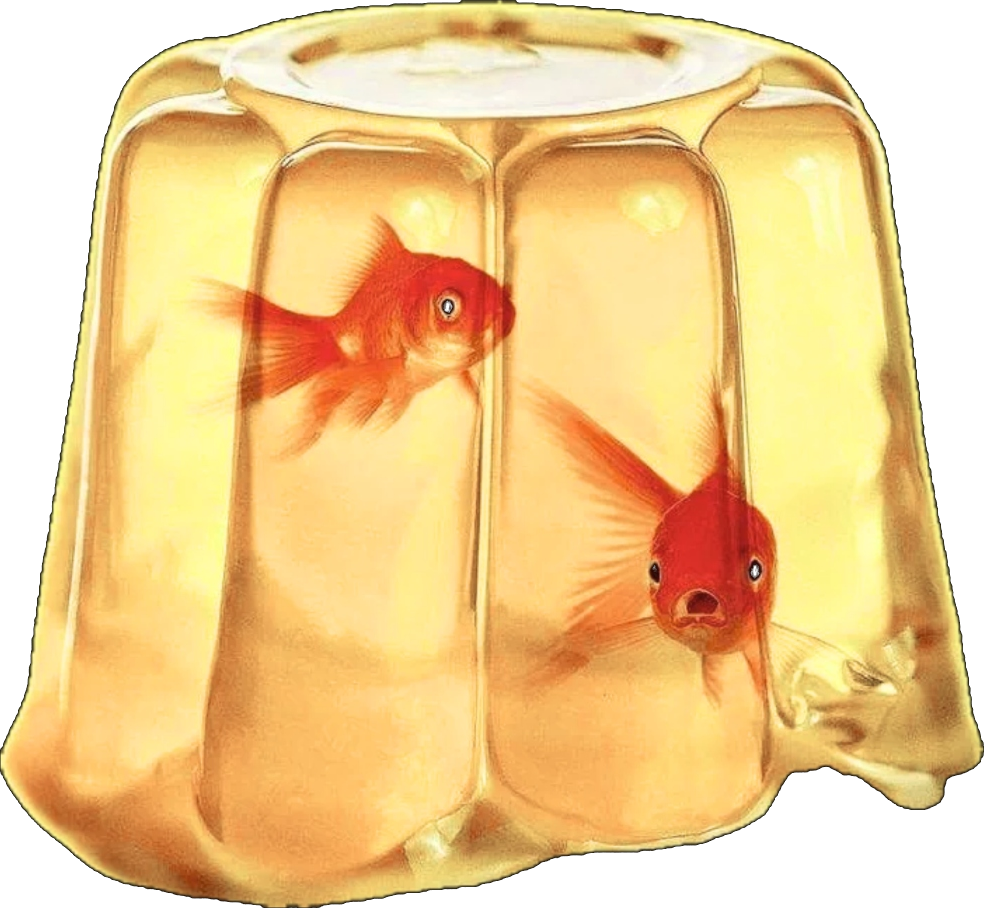
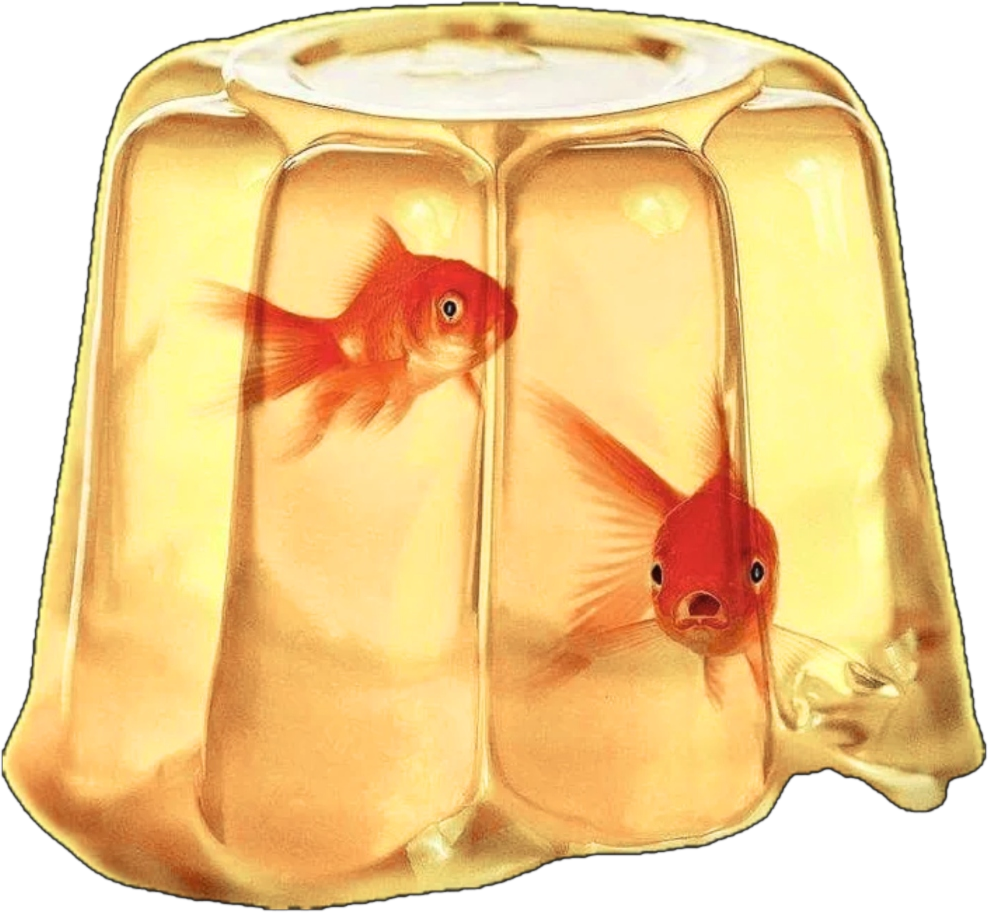
Fix item 1 CSS hover transform jump and re-render item 1 with ultra smooth Gaussian alpha mask

diff --git a/index.html b/index.html
@@ -252,7 +252,7 @@
         <!-- 7 Numbered Cutout Objects positioned circularly around the vinyl -->
         <div class="cutout-item item-1" data-val="1" title="1. Humanidade">
           <span class="item-num">1.</span>
-          <img src="assets/val_item_1_jelly.png?v=3" alt="1. Humanidade (Gelatina com Peixinhos)" class="cutout-img">
+          <img src="assets/val_item_1_jelly.png?v=4" alt="1. Humanidade (Gelatina com Peixinhos)" class="cutout-img">
         </div>
 
         <div class="cutout-item item-2" data-val="2" title="2. Essência">

diff --git a/styles.css b/styles.css
@@ -1068,6 +1068,8 @@ html, body {
 
 /* Positions for 7 Cutout Items around 520x520 vinyl wrapper (FIXED POSITION, NOT SPINNING) */
 .item-1 { top: -30px; left: 50%; transform: translateX(-50%); }
+.item-1:hover { transform: translateX(-50%) scale(1.15) translateY(-5px); }
+.item-1.active-item { transform: translateX(-50%) scale(1.22); }
 .item-1 .cutout-img { width: 135px; }
 
 .item-2 { top: 30px; right: 15px; }
